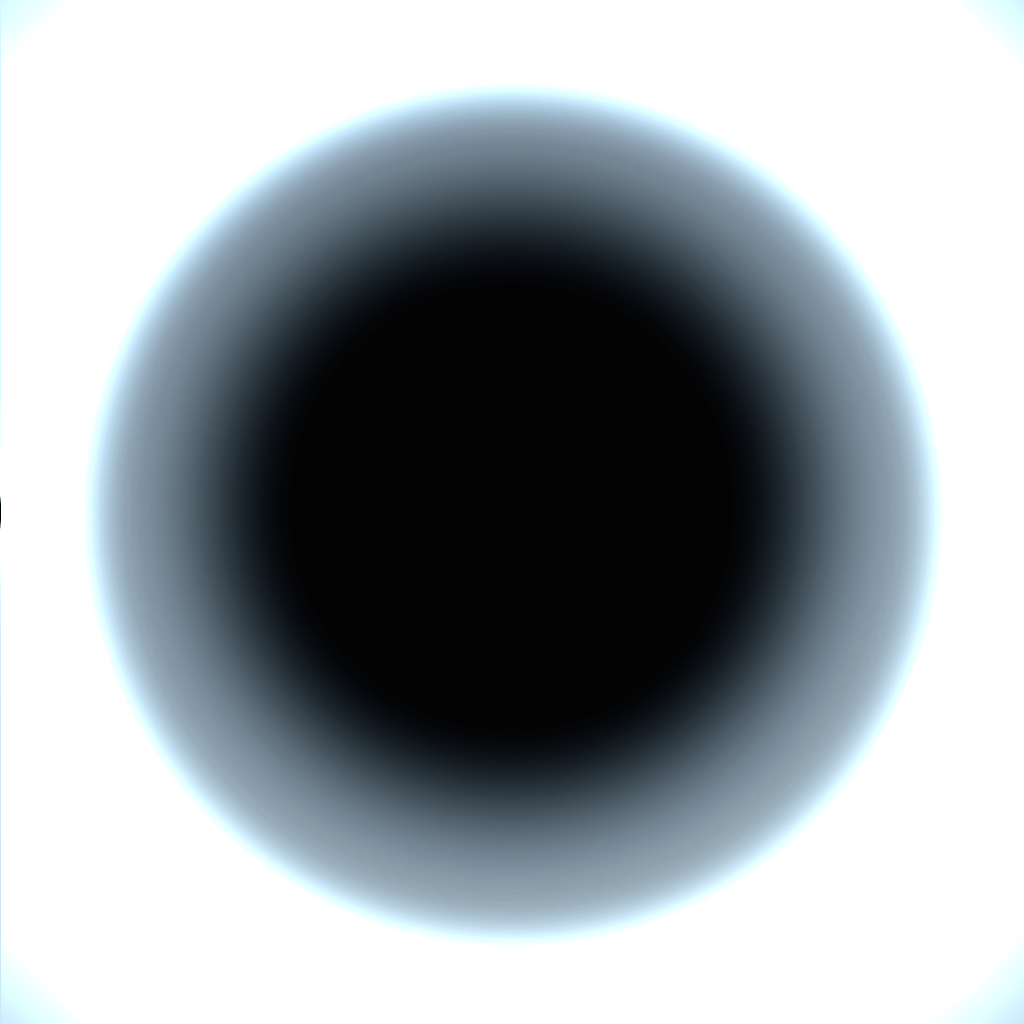
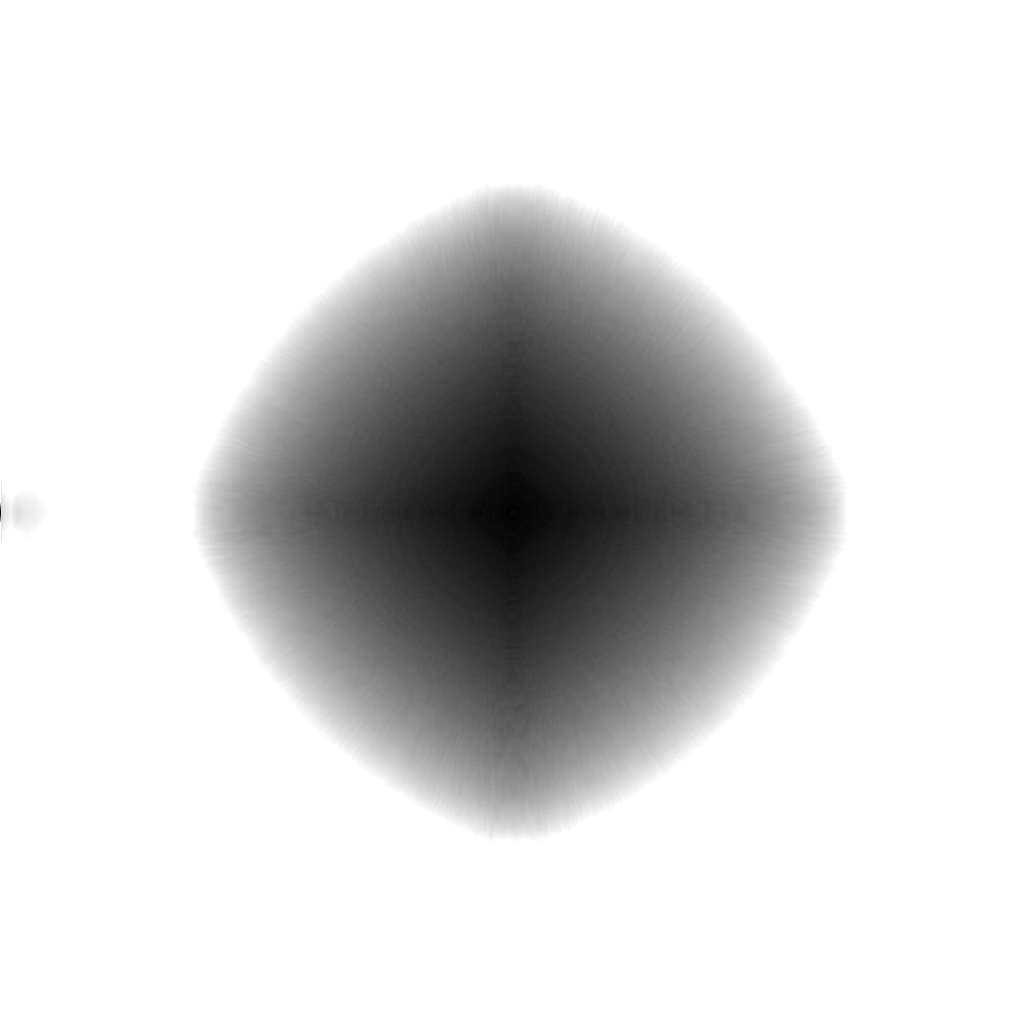
small fix

diff --git a/Experience/World/PhaseText.js b/Experience/World/PhaseText.js
@@ -44,14 +44,13 @@ export default class PhaseText
         this.material = new THREE.MeshMatcapMaterial(
             {
                 matcap: this.resources.items.textMatcap
-            }
-        )
+            })
     }
 
     setMesh()
     {
         this.mesh = new THREE.Mesh(this.geometry, this.material)
-        this.mesh.position.y = - 3.5
+        this.mesh.position.y = - 2.5
         this.mesh.position.z = - 1
         this.scene.add(this.mesh)
     }

diff --git a/Experience/World/Environment.js b/Experience/World/Environment.js
@@ -24,7 +24,7 @@ export default class Environment
 
     setSunLight()
     {
-        this.sunLight = new THREE.DirectionalLight('#ffffff', 0.8)
+        this.sunLight = new THREE.DirectionalLight('#ffffff', 1.2)
         this.sunLight.castShadow = true
         this.sunLight.shadow.camera.fat = 15
         this.sunLight.shadow.mapSize.set(1024, 1024)

diff --git a/Experience/sources.js b/Experience/sources.js
@@ -28,7 +28,7 @@ export default [
         type: 'texture',
         path:
         [
-            '/assets/matcaps/matcap-2.png'
+            '/assets/matcaps/matcap-1.png'
         ]
     },
 ]
